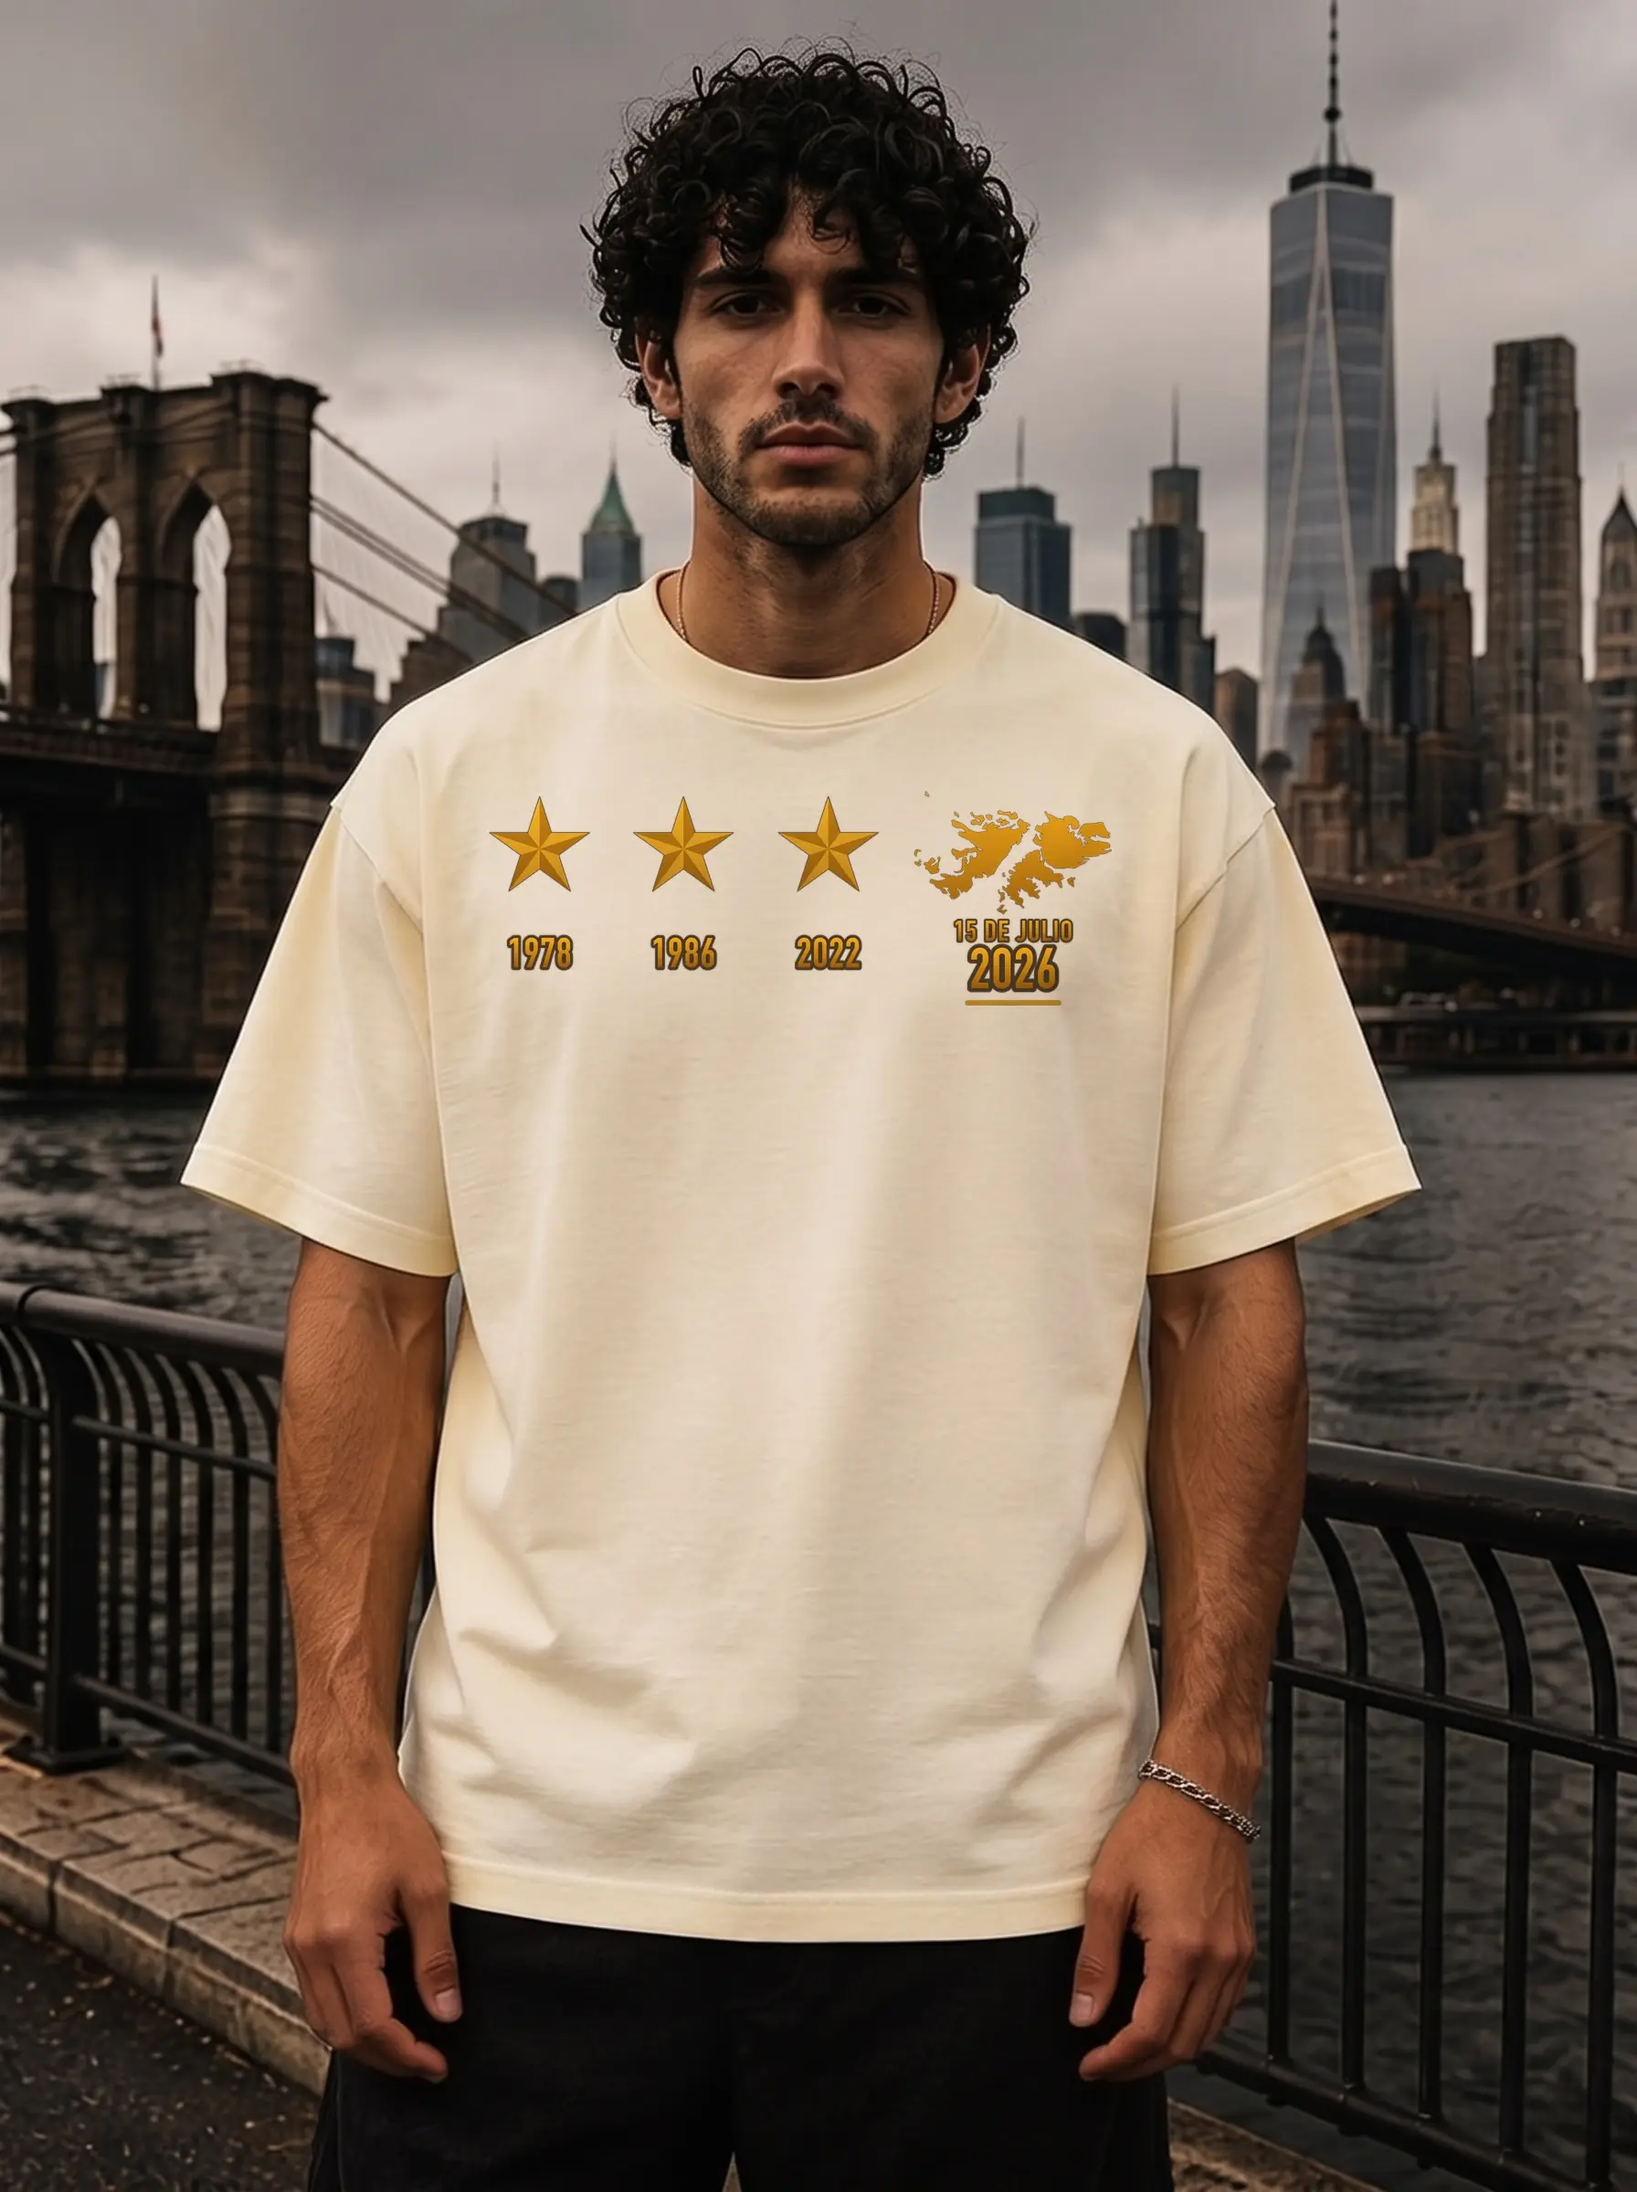
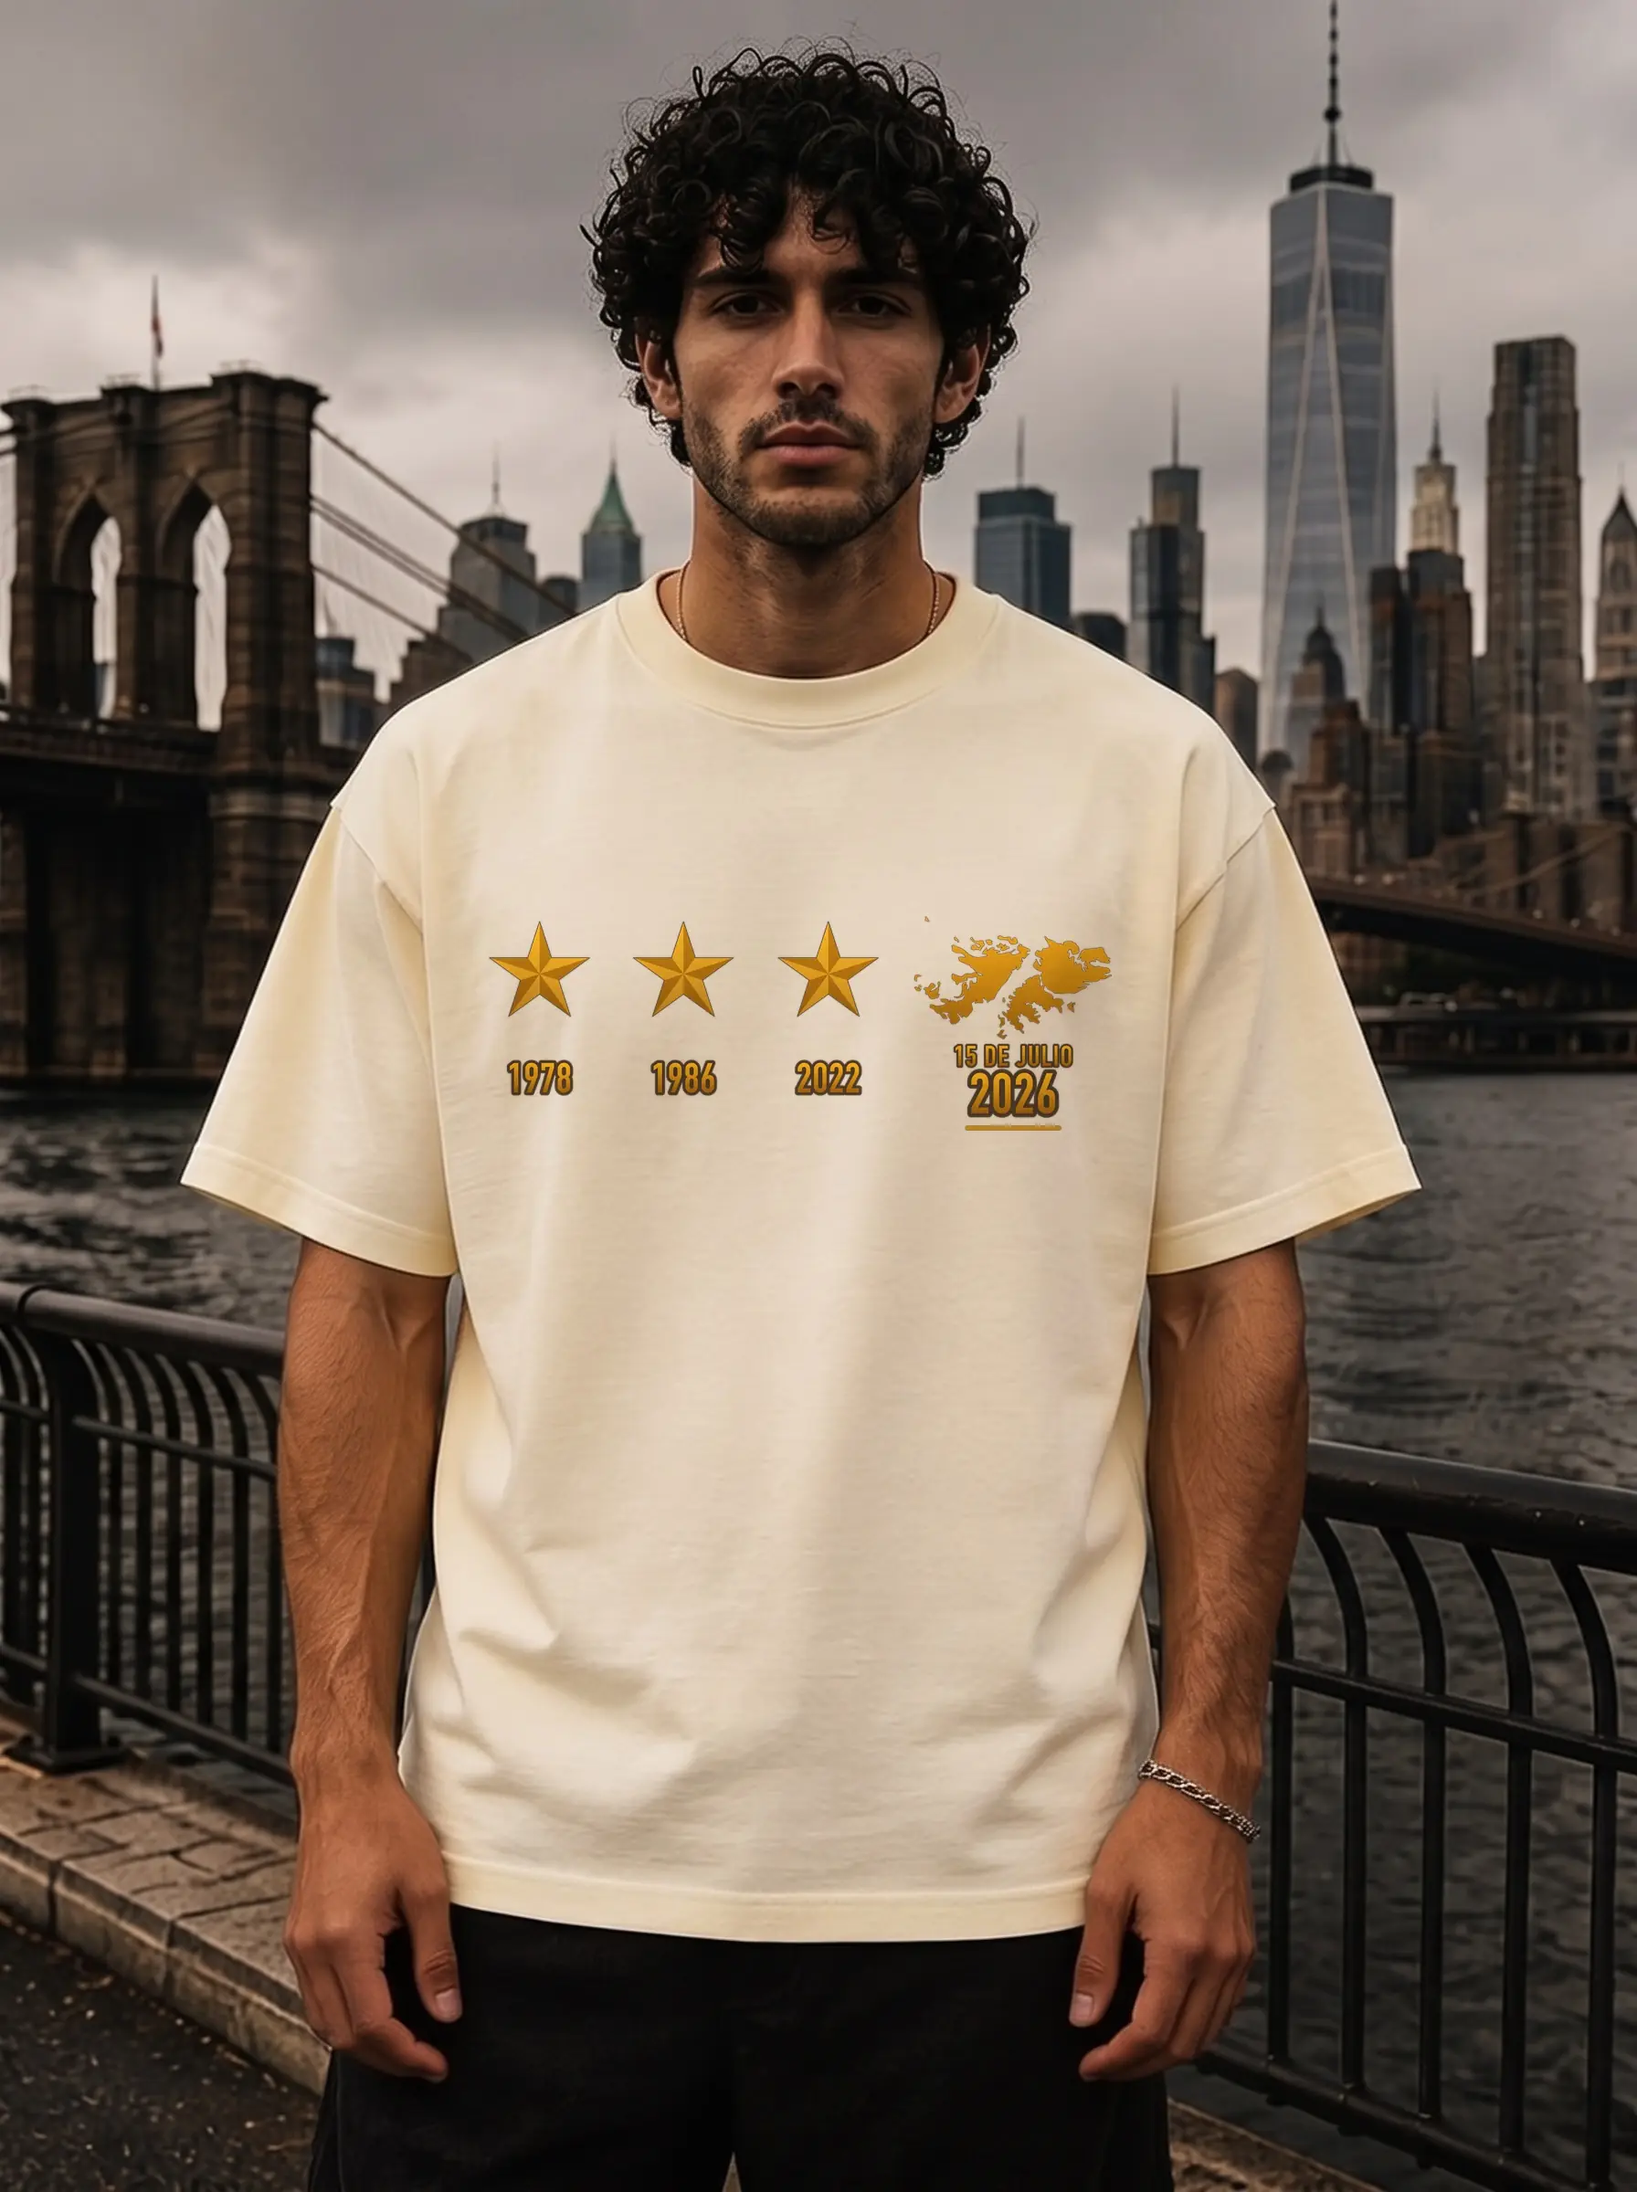
Campeones tee: lower front print 3in on the chest
Front print center cy 0.41 -> 0.467 (measured: ~45.8px per garment inch on the
1792x2400 blank). Regenerated all 6 mockups, webp and SEO hero.

Changed region(s): [[0.5625, 0.375, 0.6875, 0.5312], [0.3125, 0.375, 0.4375, 0.5], [0.4688, 0.375, 0.5312, 0.5]]

diff --git a/tools/product-pipeline/recompose_all.py b/tools/product-pipeline/recompose_all.py
@@ -59,7 +59,7 @@ DESIGNS={
  "the-coordinates-tee":  ("male",["Ivory"], M_WORD_F, F(COORD,0.74,0.50)),
  "the-spiritual-thing-tee":("male",["Ivory"], M_WORD_F, F(SPIRIT,0.74,0.50)),
  "the-sanitary-code-tee":("male",["White"], F(SANIF,0.62,0.46,0.0,"emblem","emblem"), F(SANIB,0.78,0.50,0.0,"emblem","emblem")),
- "las-malvinas-campeones-tee":("male",["White","Black","Ivory"], F(STARSF,0.92,0.41,0.0,"emblem","emblem"), F(MALVB,1.10,0.50)),
+ "las-malvinas-campeones-tee":("male",["White","Black","Ivory"], F(STARSF,0.92,0.467,0.0,"emblem","emblem"), F(MALVB,1.10,0.50)),
 }
 
 def comp(blank,art,size,cy,xo,mode,out,lc=False):
